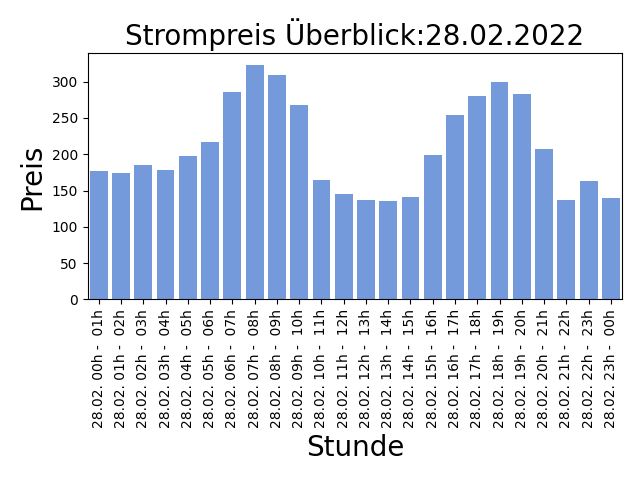
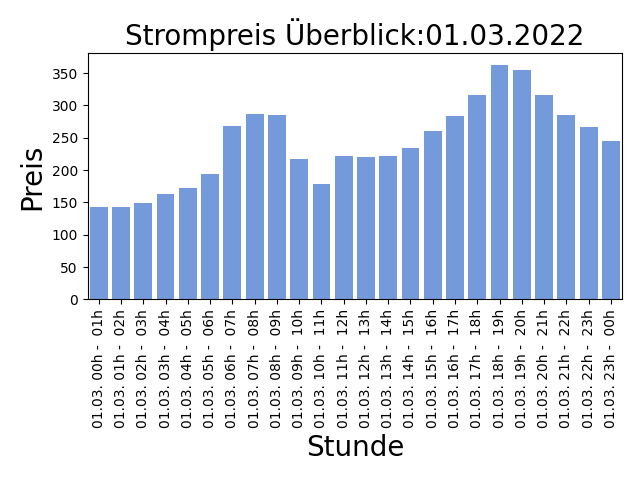
AUTOMATIC UPDATE PRICE LIST: 2022-02-28-14:30:35

diff --git a/README.md b/README.md
@@ -1,5 +1,5 @@
 
-## Strompreise für den 28.02.2022
+## Strompreise für den 01.03.2022
 
 Niedrige Preise deuten auf viel Sonnen und Windenergieerzeugung hin, ein hoher Anteil an erneuerbaren Energien bedeuted weniger CO2 Verbrauch!
 
@@ -7,31 +7,31 @@ Niedrige Preise deuten auf viel Sonnen und Windenergieerzeugung hin, ein hoher A
 
 | Stunde | Preis in Eur/MWh |
 |---|---|
-| 28.02. 00h -  01h | 177.39 | 
-| 28.02. 01h -  02h | 174.06 | 
-| 28.02. 02h -  03h | 185.57 | 
-| 28.02. 03h -  04h | 178.26 | 
-| 28.02. 04h -  05h | 197.0 | 
-| 28.02. 05h -  06h | 217.0 | 
-| 28.02. 06h -  07h | 284.97 | 
-| 28.02. 07h -  08h | 322.9 | 
-| 28.02. 08h -  09h | 308.9 | 
-| 28.02. 09h -  10h | 267.3 | 
-| 28.02. 10h -  11h | 163.82 | 
-| 28.02. 11h -  12h | 145.55 | 
-| 28.02. 12h -  13h | 137.09 | 
-| **28.02. 13h -  14h** | **135.4** | 
-| 28.02. 14h -  15h | 141.17 | 
-| 28.02. 15h -  16h | 198.24 | 
-| 28.02. 16h -  17h | 253.79 | 
-| 28.02. 17h -  18h | 280.56 | 
-| 28.02. 18h -  19h | 300.0 | 
-| 28.02. 19h -  20h | 282.19 | 
-| 28.02. 20h -  21h | 207.32 | 
-| 28.02. 21h -  22h | 137.24 | 
-| 28.02. 22h -  23h | 163.3 | 
-| 28.02. 23h -  00h | 140.09 | 
+| 01.03. 00h -  01h | 143.17 | 
+| **01.03. 01h -  02h** | **143.15** | 
+| 01.03. 02h -  03h | 149.74 | 
+| 01.03. 03h -  04h | 163.5 | 
+| 01.03. 04h -  05h | 173.15 | 
+| 01.03. 05h -  06h | 194.03 | 
+| 01.03. 06h -  07h | 268.04 | 
+| 01.03. 07h -  08h | 286.73 | 
+| 01.03. 08h -  09h | 284.91 | 
+| 01.03. 09h -  10h | 217.58 | 
+| 01.03. 10h -  11h | 179.33 | 
+| 01.03. 11h -  12h | 222.33 | 
+| 01.03. 12h -  13h | 220.0 | 
+| 01.03. 13h -  14h | 221.5 | 
+| 01.03. 14h -  15h | 235.02 | 
+| 01.03. 15h -  16h | 261.24 | 
+| 01.03. 16h -  17h | 283.2 | 
+| 01.03. 17h -  18h | 315.87 | 
+| 01.03. 18h -  19h | 362.75 | 
+| 01.03. 19h -  20h | 354.11 | 
+| 01.03. 20h -  21h | 315.87 | 
+| 01.03. 21h -  22h | 286.0 | 
+| 01.03. 22h -  23h | 266.94 | 
+| 01.03. 23h -  00h | 245.47 | 
 
 Preise der EPEX Spot ® Strombörse (neue Preise werden täglich um 14:00 veröffentlicht für den kompletten nächsten Tag).
 
-letzte Aktualisierung:27.02.2022 14:30
+letzte Aktualisierung:28.02.2022 14:30
